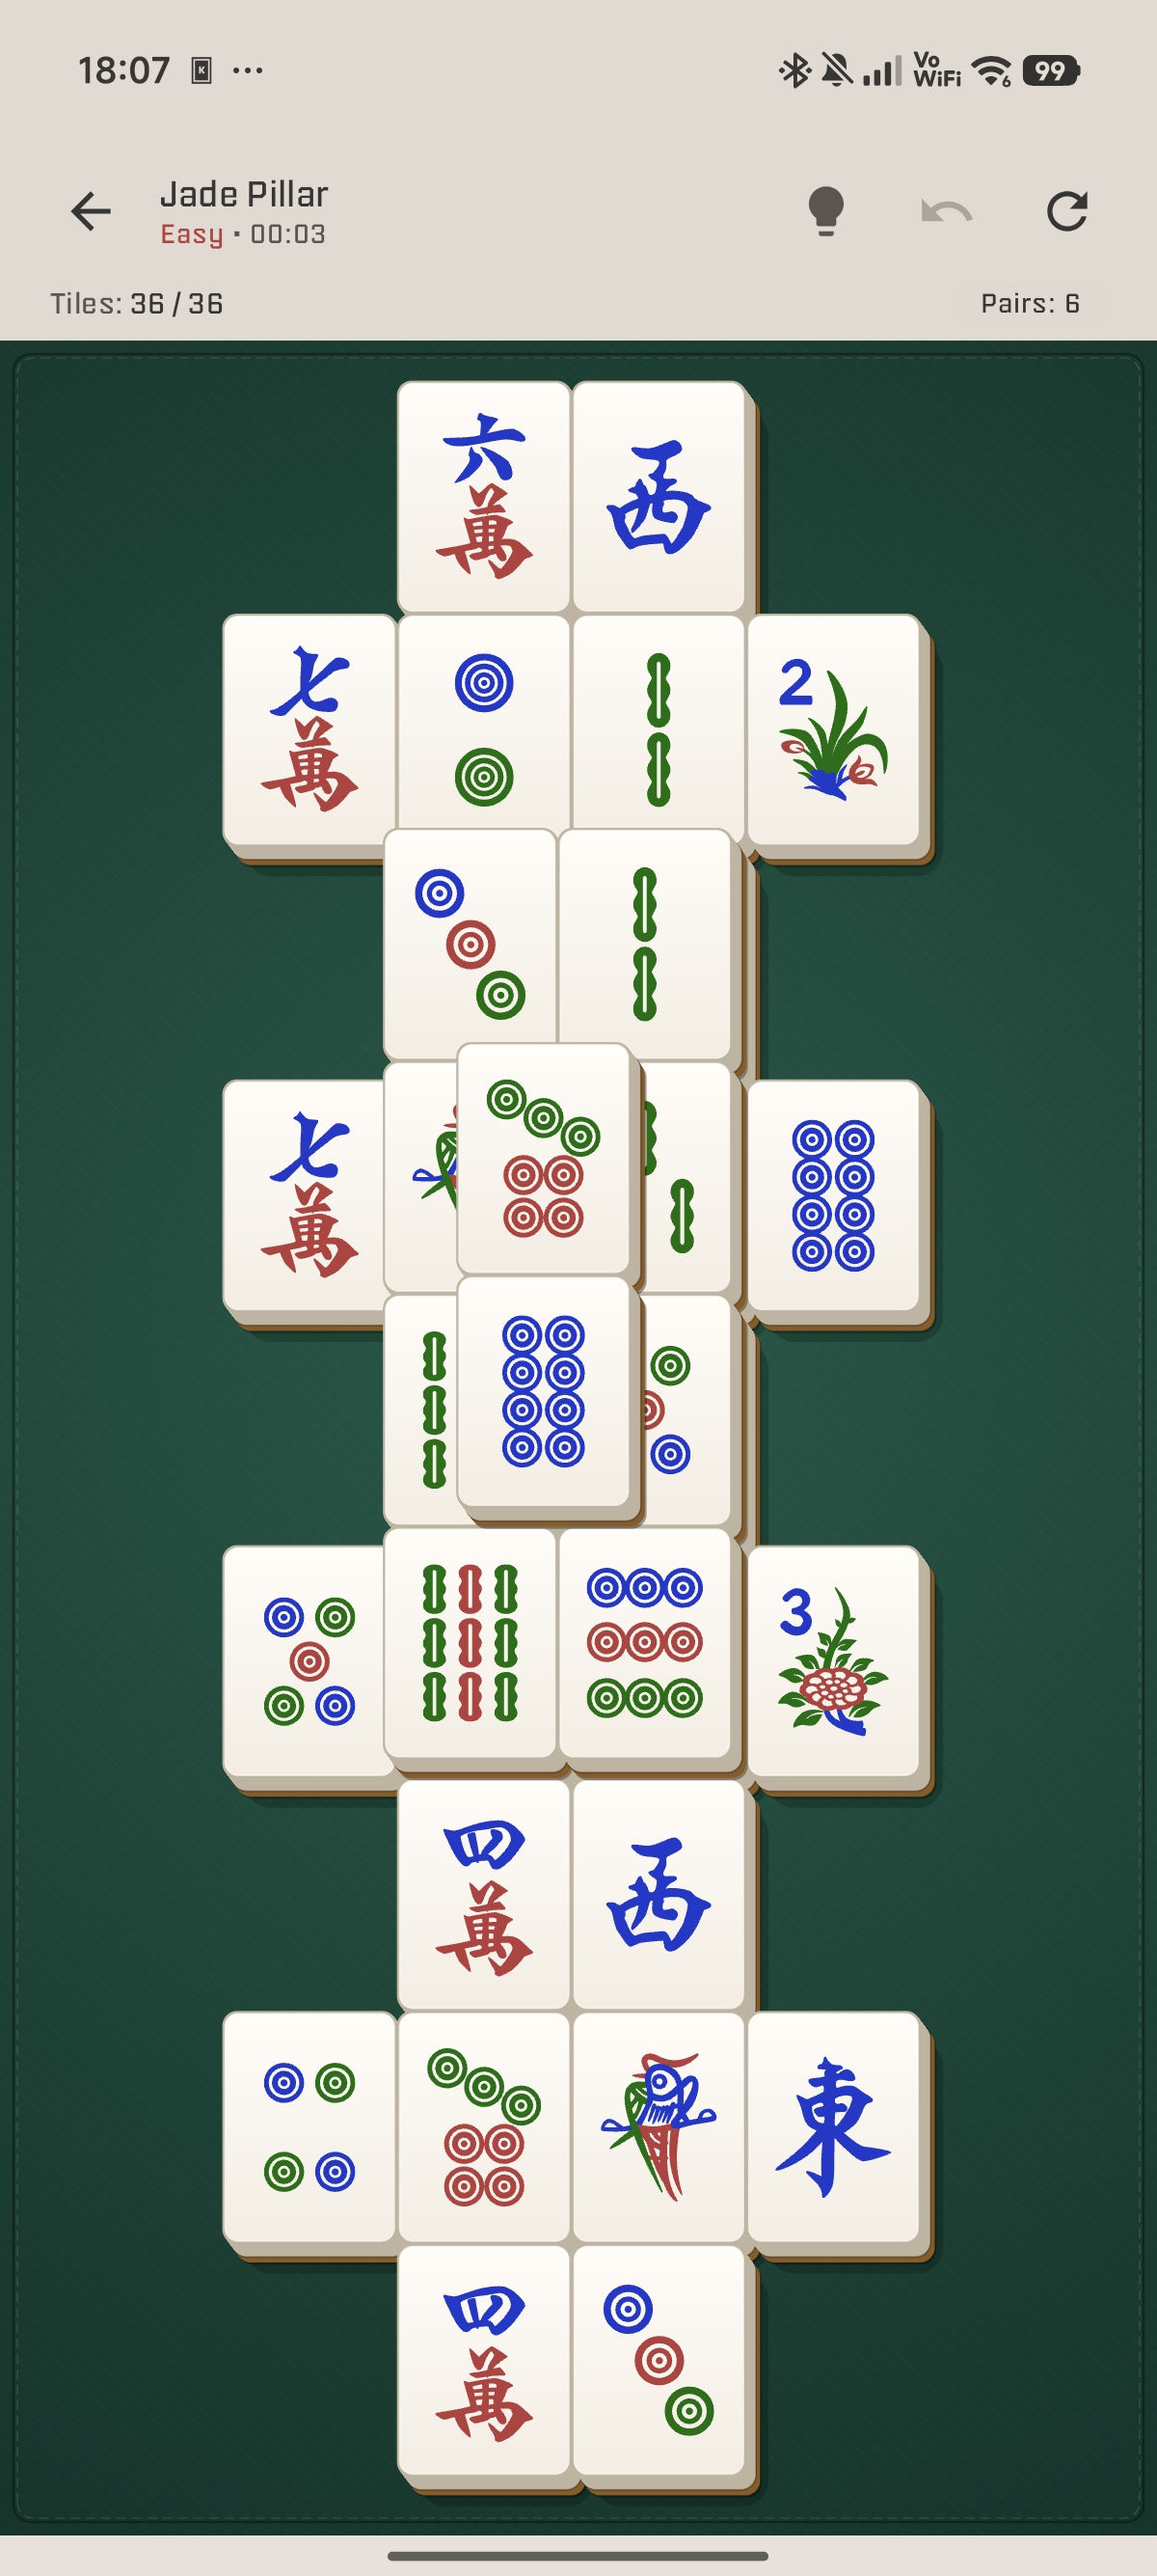
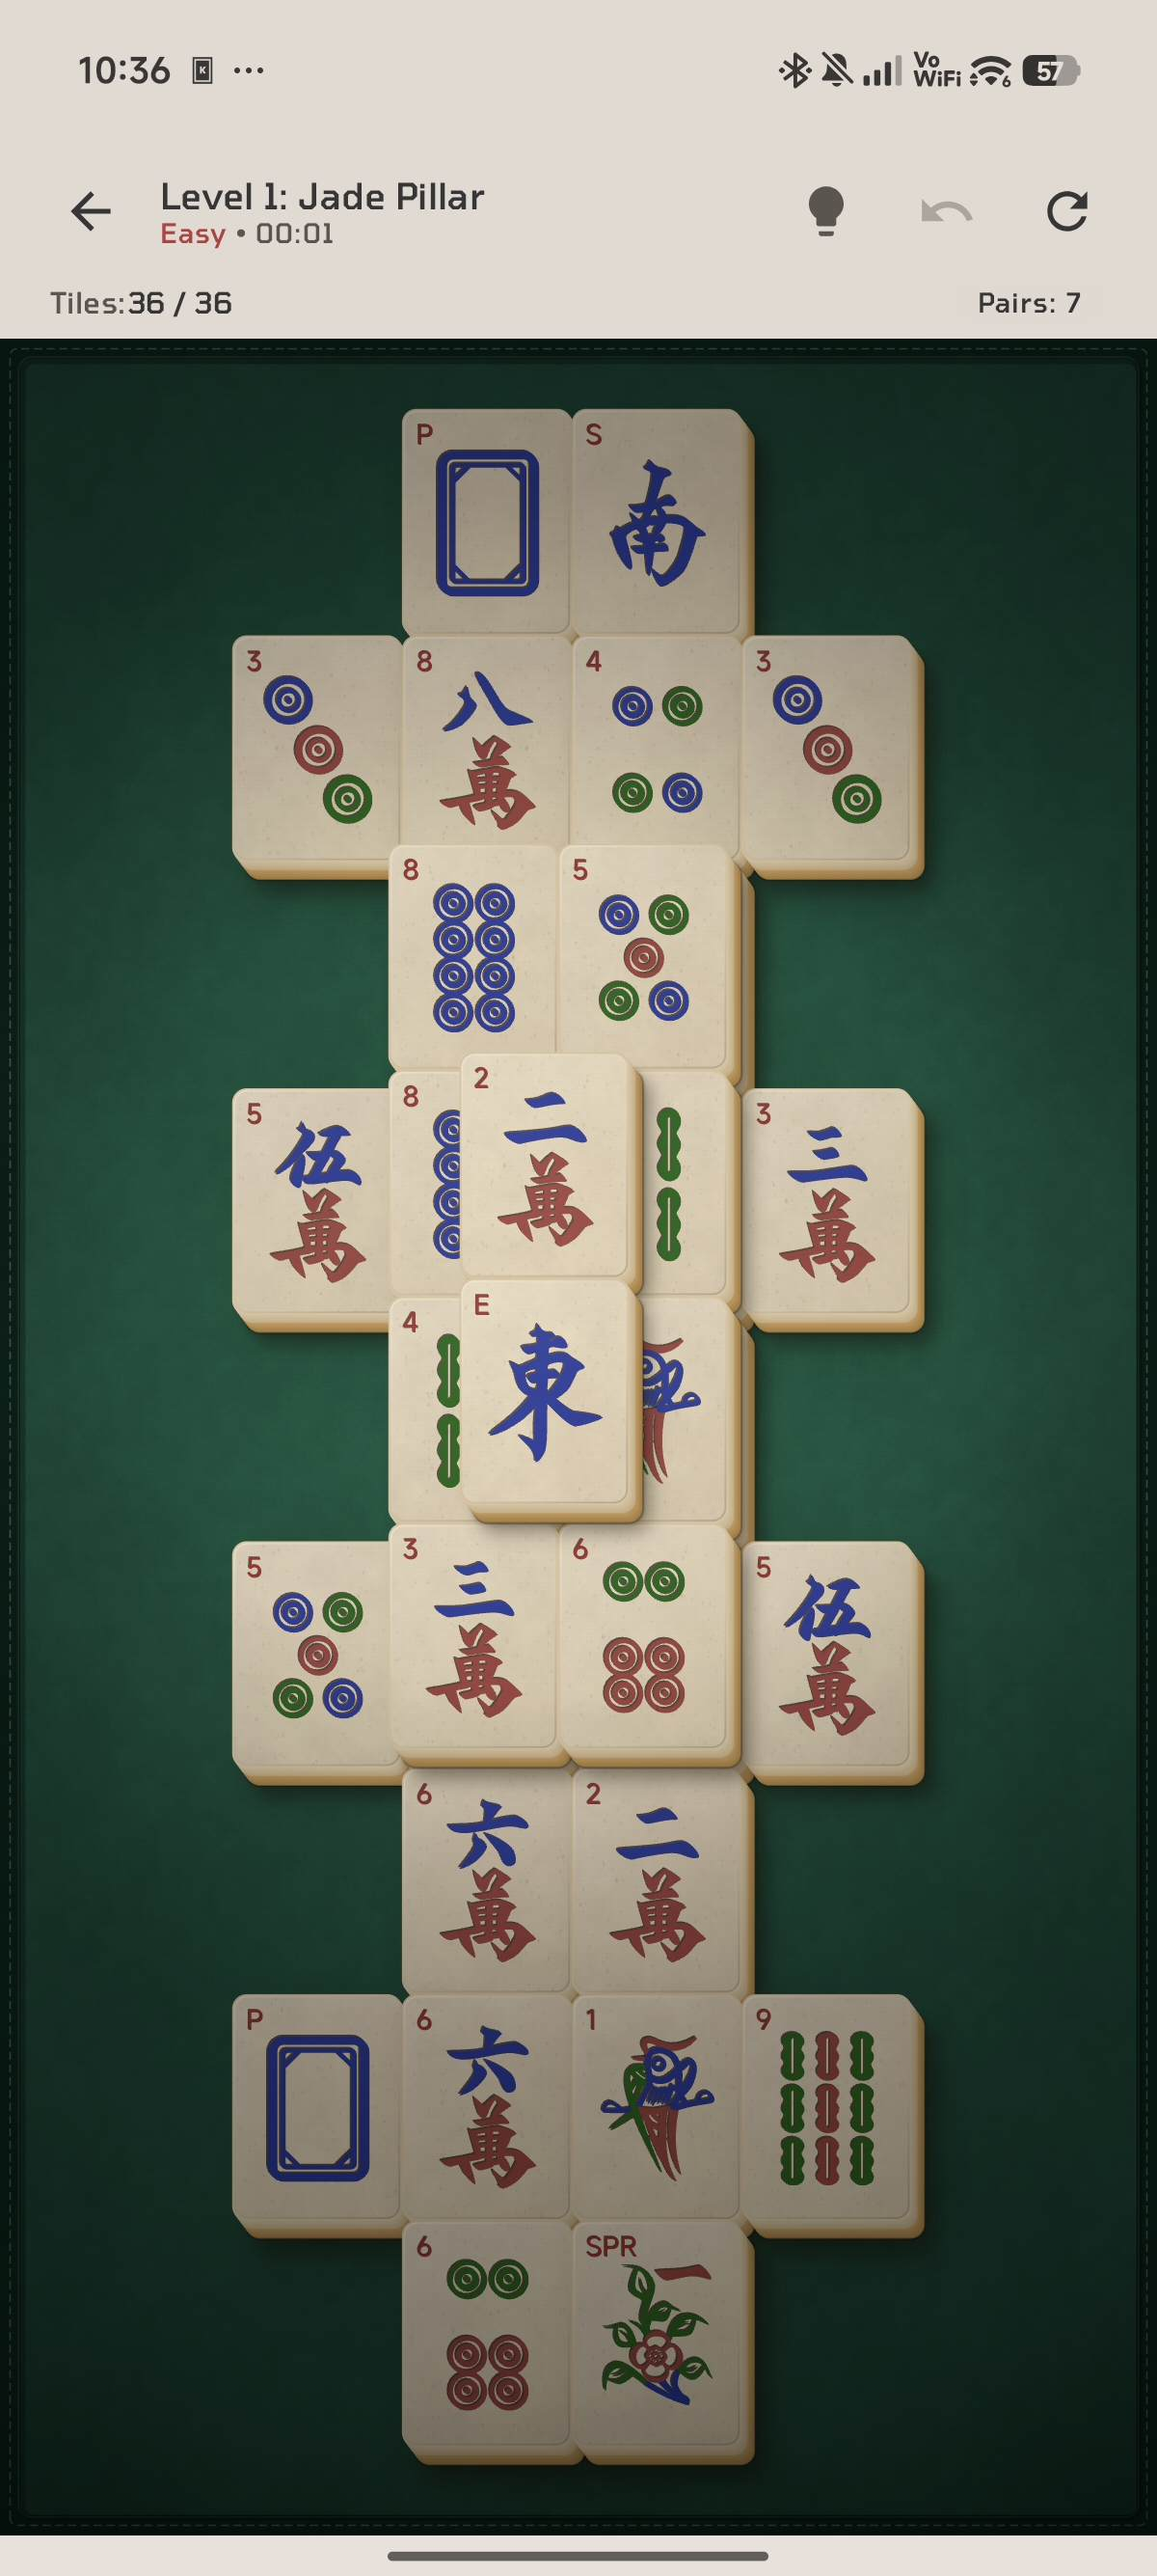
Added new screenshots

diff --git a/README.md b/README.md
@@ -19,8 +19,9 @@ Classic Mahjong Solitaire designed for a smooth, clean experience on low-perform
 ## Screenshots
 
 <p align="center">
-  <img src="fastlane/metadata/android/en-US/images/phoneScreenshots/1.jpg" width="400"  alt="Screenshot 1"/>
-  <img src="fastlane/metadata/android/en-US/images/phoneScreenshots/2.jpg" width="400"  alt="Screenshot 2"/>
+  <img src="fastlane/metadata/android/en-US/images/phoneScreenshots/1.jpg" width="300"  alt="Screenshot 1"/>
+  <img src="fastlane/metadata/android/en-US/images/phoneScreenshots/2.jpg" width="300"  alt="Screenshot 2"/>
+  <img src="fastlane/metadata/android/en-US/images/phoneScreenshots/3.jpg" width="300"  alt="Screenshot 3"/>
 </p>
 
 ## Requirements
